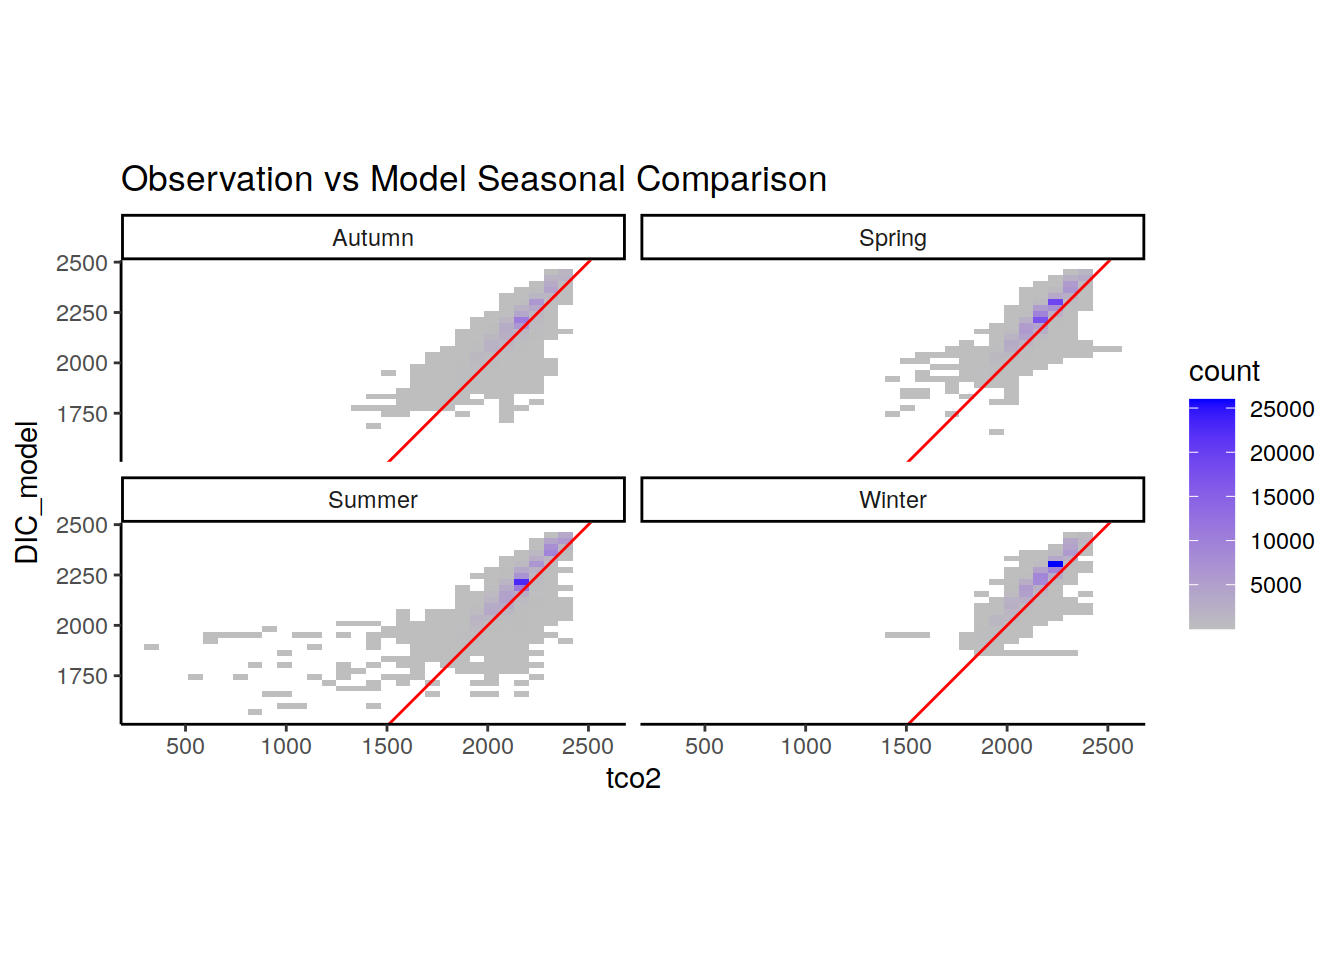
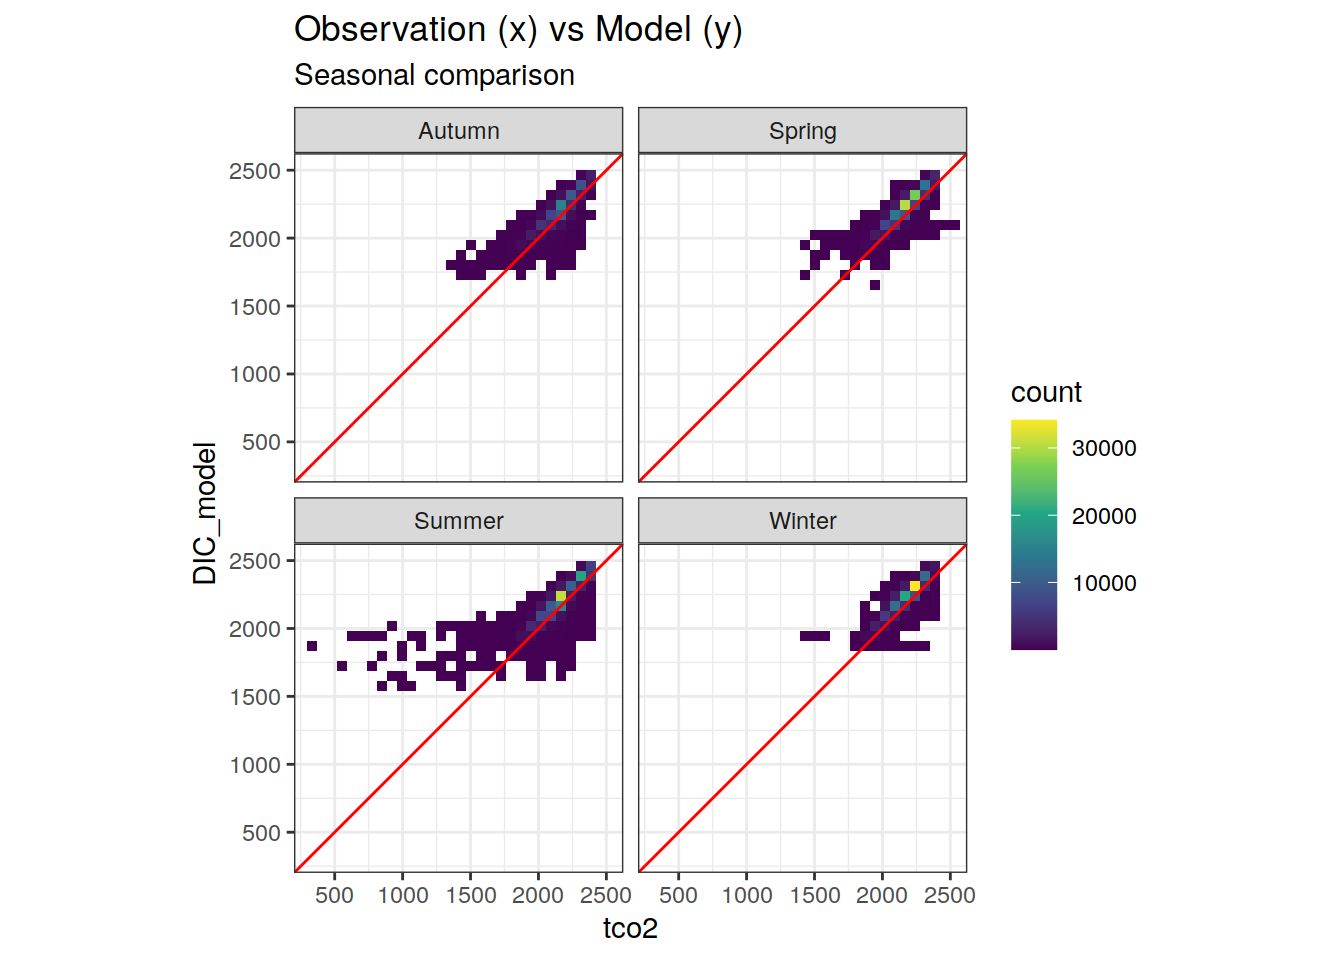
Build site.

diff --git a/docs/obs_model_comparison.html b/docs/obs_model_comparison.html
@@ -550,16 +550,16 @@ This reproducible <a href="http://rmarkdown.rstudio.com">R Markdown</a> analysis
 <div class="panel panel-default">
 <div class="panel-heading">
 <p class="panel-title">
-<a data-toggle="collapse" data-parent="#workflowr-checks" href="#strongRepositoryversionstrongahrefhttpsgithubcomDongheZhueMLRmodeltree46fe5f597c6a496ec200c9d1d4d58cc74e949b30targetblank46fe5f5a"> <span class="glyphicon glyphicon-ok text-success" aria-hidden="true"></span> <strong>Repository version:</strong> <a href="https://github.com/Donghe-Zhu/eMLR_model/tree/46fe5f597c6a496ec200c9d1d4d58cc74e949b30" target="_blank">46fe5f5</a> </a>
+<a data-toggle="collapse" data-parent="#workflowr-checks" href="#strongRepositoryversionstrongahrefhttpsgithubcomDongheZhueMLRmodeltree8fd2b04f43da345e0e7f44dc18bca790cd98f58ctargetblank8fd2b04a"> <span class="glyphicon glyphicon-ok text-success" aria-hidden="true"></span> <strong>Repository version:</strong> <a href="https://github.com/Donghe-Zhu/eMLR_model/tree/8fd2b04f43da345e0e7f44dc18bca790cd98f58c" target="_blank">8fd2b04</a> </a>
 </p>
 </div>
[2 lines of base64/hex data omitted]
 <div class="panel-body">
 <p>
 Great! You are using Git for version control. Tracking code development and connecting the code version to the results is critical for reproducibility.
 </p>
 <p>
-The results in this page were generated with repository version <a href="https://github.com/Donghe-Zhu/eMLR_model/tree/46fe5f597c6a496ec200c9d1d4d58cc74e949b30" target="_blank">46fe5f5</a>. See the <em>Past versions</em> tab to see a history of the changes made to the R Markdown and HTML files.
+The results in this page were generated with repository version <a href="https://github.com/Donghe-Zhu/eMLR_model/tree/8fd2b04f43da345e0e7f44dc18bca790cd98f58c" target="_blank">8fd2b04</a>. See the <em>Past versions</em> tab to see a history of the changes made to the R Markdown and HTML files.
 </p>
 <p>
 Note that you need to be careful to ensure that all relevant files for the analysis have been committed to Git prior to generating the results (you can use <code>wflow_publish</code> or <code>wflow_git_commit</code>). workflowr only checks the R Markdown file, but you know if there are other scripts or data files that it depends on. Below is the status of the Git repository when the results were generated:
@@ -572,9 +572,6 @@ Ignored files:
     Ignored:    data/World_Ocean_Atlas_2018/
     Ignored:    data/model/
     Ignored:    output/model_subsetting/
-
-Unstaged changes:
-    Modified:   code/Workflowr_project_managment_jdm.R
 
 </code></pre>
 <p>
@@ -613,6 +610,40 @@ Message
 </tr>
 </thead>
 <tbody>
+<tr>
+<td>
+Rmd
+</td>
+<td>
+<a href="https://github.com/Donghe-Zhu/eMLR_model/blob/8fd2b04f43da345e0e7f44dc18bca790cd98f58c/analysis/obs_model_comparison.Rmd" target="_blank">8fd2b04</a>
+</td>
+<td>
+jens-daniel-mueller
+</td>
+<td>
+2020-11-18
+</td>
+<td>
+updated property property plots
+</td>
+</tr>
+<tr>
+<td>
+html
+</td>
+<td>
+<a href="https://rawcdn.githack.com/Donghe-Zhu/eMLR_model/e000ad98c30ff4c1bb746516a2d8e0581e158140/docs/obs_model_comparison.html" target="_blank">e000ad9</a>
+</td>
+<td>
+jens-daniel-mueller
+</td>
+<td>
+2020-11-18
+</td>
+<td>
+Build site.
+</td>
+</tr>
 <tr>
 <td>
 html
@@ -757,7 +788,7 @@ model_var &lt;-
 # too many figures, here instead of length(obs_var), just use the first two.
 for (i in 1:8) {
   # Uncomment line below for manual testing
-  # i &lt;- 1
+   i &lt;- 1
   
   # select correlated observation and model variable
   variable_all &lt;- GLODAP_model %&gt;%
@@ -778,22 +809,36 @@ for (i in 1:8) {
       )
     )
   
+  axis_lims &lt;- variable_all %&gt;%
+    summarise(
+      max_value = max(c(
+        max(!!sym(obs_var[i])),
+        max(!!sym(model_var[i])))),
+      min_value = min(c(
+        min(!!sym(obs_var[i])),
+        min(!!sym(model_var[i]))))
+      )
+  
+  binwidth_value &lt;- (axis_lims$max_value - axis_lims$min_value) / 30
+  axis_lims &lt;- c(axis_lims$min_value, axis_lims$max_value)
+
+  
   # obs-model plot (season)
   print(
     ggplot(variable_all, aes(
       x = !!sym(obs_var[i]),
       y = !!sym(model_var[i])
     )) +
-      geom_bin2d() +
+      geom_bin2d(binwidth = binwidth_value) +
       labs(
-        x = sym(obs_var[i]),
-        y = sym(model_var[i]),
-        title = &quot;Observation vs Model Seasonal Comparison&quot;
+        title = &quot;Observation (x) vs Model (y)&quot;,
+        subtitle = &quot;Seasonal comparison&quot;
       ) +
-      scale_fill_gradient(low = &#39;gray&#39;, high = &#39;blue&#39;) +
-      geom_abline(slope = 1, col = &#39;red&#39;) +
-      coord_equal() +
-      theme_classic() +
+      scale_fill_viridis_c() +
+      geom_abline(slope = 1,
+                  col = &#39;red&#39;) +
+      coord_equal(xlim = axis_lims,
+                  ylim = axis_lims) +
       facet_wrap( ~ season)
   )
   
@@ -803,16 +848,15 @@ for (i in 1:8) {
       x = !!sym(obs_var[i]),
       y = !!sym(model_var[i])
     )) +
-      geom_bin2d() +
+      geom_bin2d(binwidth = binwidth_value) +
       labs(
-        x = sym(obs_var[i]),
-        y = sym(model_var[i]),
-        title = &quot;Observation vs Model All Years Comparison&quot;
+        title = &quot;Observation (x) vs Model (y)&quot;,
+        subtitle = &quot;All years&quot;
       ) +
-      scale_fill_gradient(low = &#39;gray&#39;, high = &#39;blue&#39;) +
+      scale_fill_viridis_c() +
       geom_abline(slope = 1, col = &#39;red&#39;) +
-      coord_equal() +
-      theme_classic()
+      coord_equal(xlim = axis_lims,
+                  ylim = axis_lims)
   )
   
 }</code></pre>
@@ -1457,21 +1501,21 @@ other attached packages:
  [9] tidyverse_1.3.0 workflowr_1.6.2
 
 loaded via a namespace (and not attached):
- [1] tidyselect_1.1.0 xfun_0.18        haven_2.3.1      colorspace_1.4-1
- [5] vctrs_0.3.4      generics_0.0.2   htmltools_0.5.0  yaml_2.2.1      
- [9] blob_1.2.1       rlang_0.4.8      later_1.1.0.1    pillar_1.4.6    
-[13] withr_2.3.0      glue_1.4.2       DBI_1.1.0        dbplyr_1.4.4    
-[17] modelr_0.1.8     readxl_1.3.1     lifecycle_0.2.0  munsell_0.5.0   
-[21] gtable_0.3.0     cellranger_1.1.0 rvest_0.3.6      evaluate_0.14   
-[25] labeling_0.4.2   knitr_1.30       httpuv_1.5.4     fansi_0.4.1     
-[29] broom_0.7.2      Rcpp_1.0.5       promises_1.1.1   backports_1.1.10
-[33] scales_1.1.1     jsonlite_1.7.1   farver_2.0.3     fs_1.5.0        
-[37] hms_0.5.3        digest_0.6.27    stringi_1.5.3    rprojroot_1.3-2 
-[41] grid_4.0.3       here_0.1         cli_2.1.0        tools_4.0.3     
-[45] magrittr_1.5     crayon_1.3.4     whisker_0.4      pkgconfig_2.0.3 
-[49] ellipsis_0.3.1   xml2_1.3.2       reprex_0.3.0     lubridate_1.7.9 
-[53] assertthat_0.2.1 rmarkdown_2.5    httr_1.4.2       rstudioapi_0.11 
-[57] R6_2.5.0         git2r_0.27.1     compiler_4.0.3  </code></pre>
+ [1] tidyselect_1.1.0  xfun_0.18         haven_2.3.1       colorspace_1.4-1 
+ [5] vctrs_0.3.4       generics_0.0.2    viridisLite_0.3.0 htmltools_0.5.0  
+ [9] yaml_2.2.1        blob_1.2.1        rlang_0.4.8       later_1.1.0.1    
+[13] pillar_1.4.6      withr_2.3.0       glue_1.4.2        DBI_1.1.0        
+[17] dbplyr_1.4.4      modelr_0.1.8      readxl_1.3.1      lifecycle_0.2.0  
+[21] munsell_0.5.0     gtable_0.3.0      cellranger_1.1.0  rvest_0.3.6      
+[25] evaluate_0.14     labeling_0.4.2    knitr_1.30        httpuv_1.5.4     
+[29] fansi_0.4.1       broom_0.7.2       Rcpp_1.0.5        promises_1.1.1   
+[33] backports_1.1.10  scales_1.1.1      jsonlite_1.7.1    farver_2.0.3     
+[37] fs_1.5.0          hms_0.5.3         digest_0.6.27     stringi_1.5.3    
+[41] rprojroot_1.3-2   grid_4.0.3        here_0.1          cli_2.1.0        
+[45] tools_4.0.3       magrittr_1.5      crayon_1.3.4      whisker_0.4      
+[49] pkgconfig_2.0.3   ellipsis_0.3.1    xml2_1.3.2        reprex_0.3.0     
+[53] lubridate_1.7.9   assertthat_0.2.1  rmarkdown_2.5     httr_1.4.2       
+[57] rstudioapi_0.11   R6_2.5.0          git2r_0.27.1      compiler_4.0.3   </code></pre>
 </div>
 </div>
 </div>
